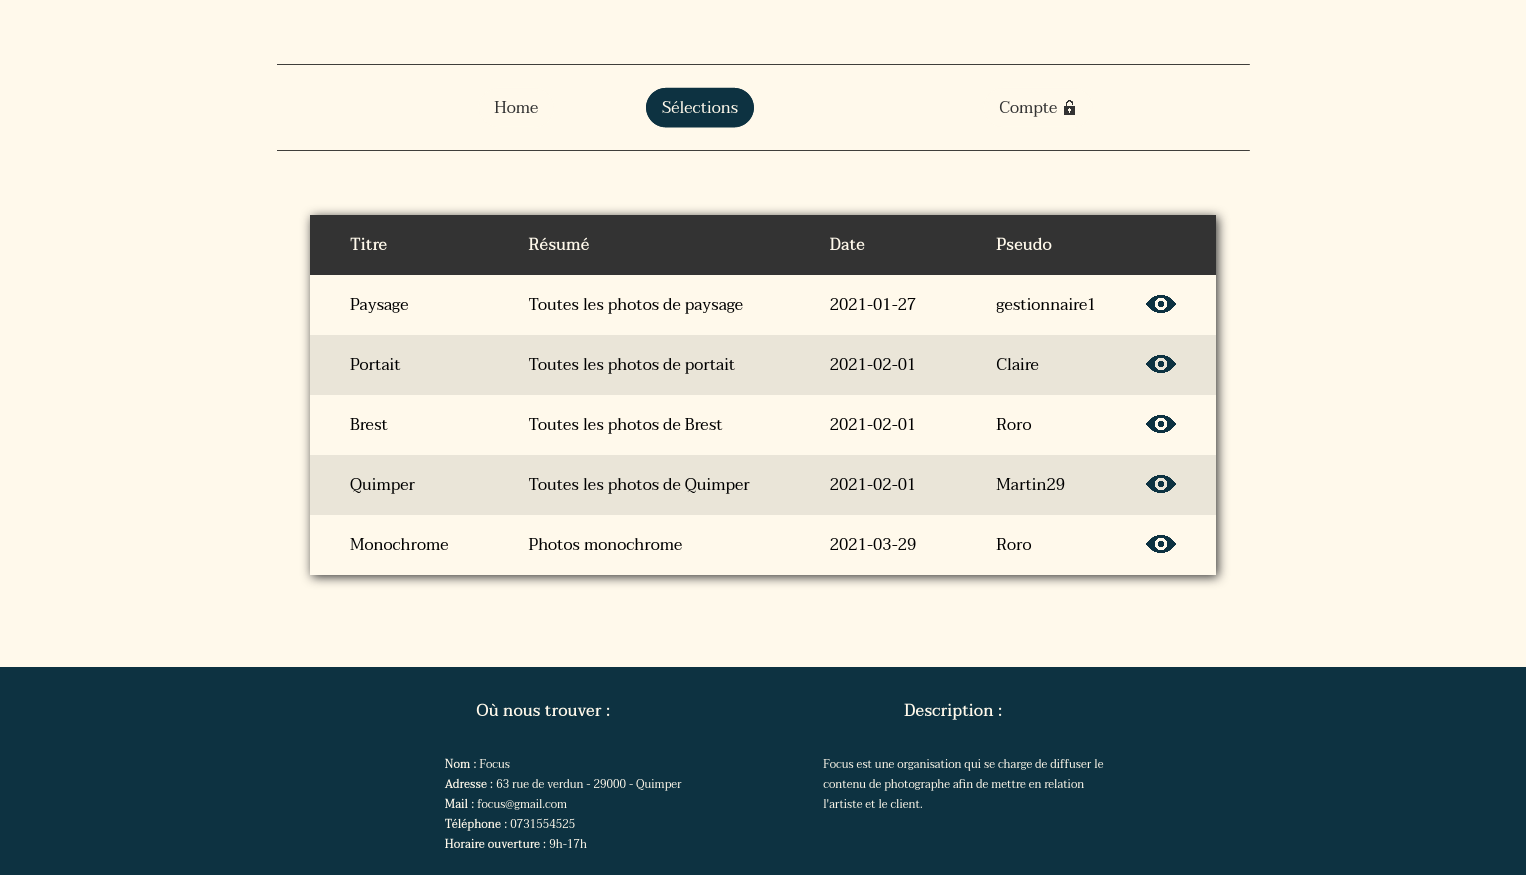
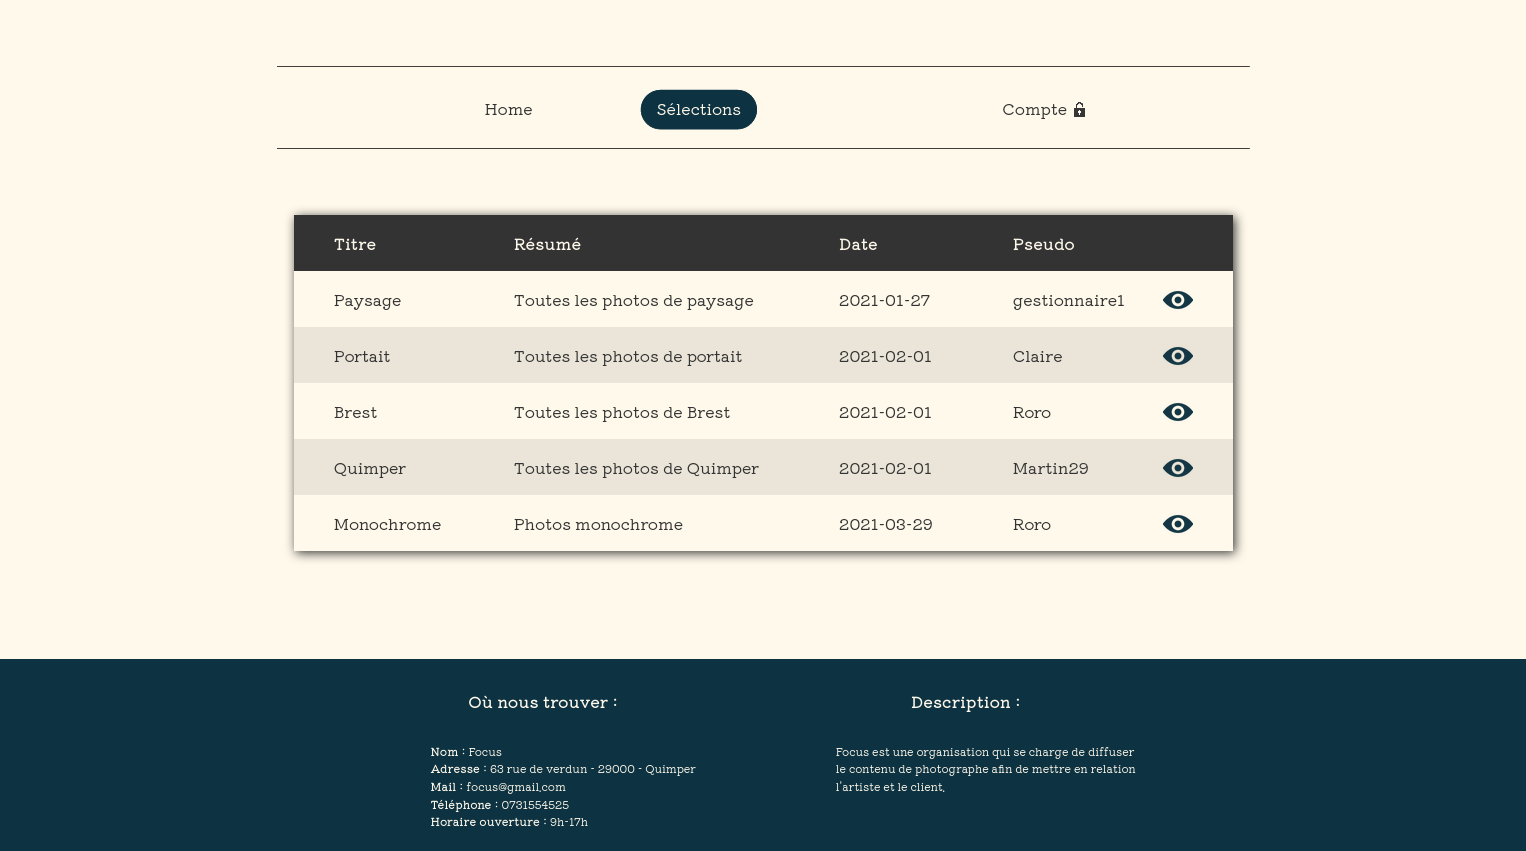
Nouvelles photos

diff --git a/v1/css/selection.css b/v1/css/selection.css
@@ -46,6 +46,7 @@ th,td{
    padding-left: 40px;
    padding-right: 40px;
    position: relative;
+   transition: all 0.5s;
 }
 
 
@@ -78,6 +79,7 @@ th,td{
    position: absolute;
    display: block;
    background-size: contain;
+   opacity: 1;
 }
 
 .oeil:hover{
@@ -89,7 +91,14 @@ th,td{
 }
 
 .contenu:hover .oeil{
+   animation-name: oeil;
+   animation-duration: 1.2s;
    background-image: url("../assets/logos/oeil_w.png");
+}
+
+@keyframes oeil {
+   0%{opacity: 0;}
+   100%{opacity: 1;}
 }
 
 /*Affichage Elements*/

diff --git a/v1/css/connexion.css b/v1/css/connexion.css
@@ -124,7 +124,11 @@ input:hover{
 
 #message, #message2{
    position: absolute;
-   transform: translateX(10px);
+   transform: translate(10px,5px);
+}
+
+#message3{
+   transform: translateX(24%);
 }
 
 .buttonConnexion{
